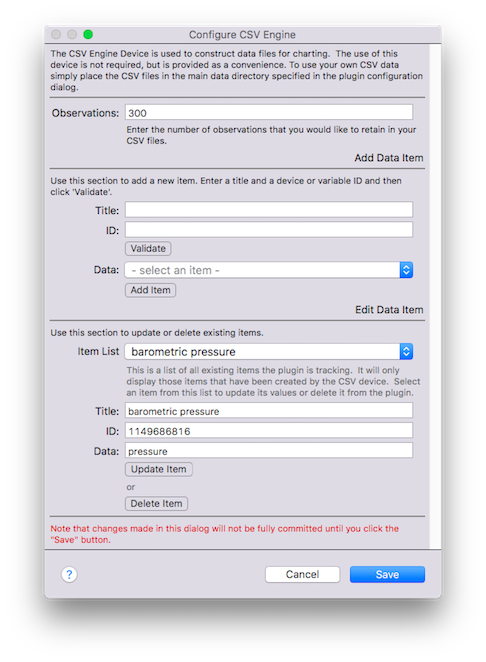
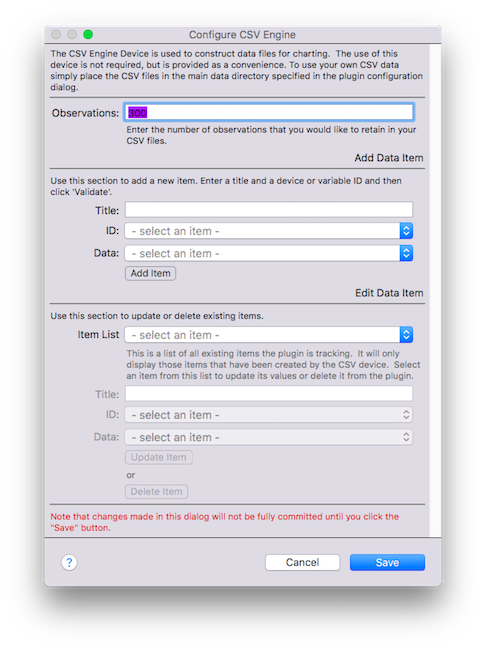
Adds additional validation checks to CSV Engine device to avoid creation of null devices. Includes maintenance code to automatically eliminate null devices that have been previously created.

Changed region(s): [[0.0926, 0.0308, 0.8951, 0.8923], [0.8642, 0.8, 0.8951, 0.8308]]

diff --git a/index.html b/index.html
@@ -65,7 +65,7 @@
 
 <br style="clear:both"/>
 <h3>Devices</h3>
-<img class="TextWrap" src="img/img_csvEngine.png">
+<img class="TextWrap" src="img/img_csvConfig.png">
 <p>Presently, the plugin contains functionality for several charting system devices including:
 <ul>
     <li>CSV Engine</li>
@@ -83,10 +83,10 @@
     CSV Data Engine device type. To establish your CSV Engine, create a new Indigo Device, select Matplotlib as the device type and CSV Engine as the device model.
 <p>For each data element, you must add three things: a title, a device (or variable) ID, and a device state (or variable value).
 <uL>
-    <li><span>&nbsp;Add Data Item&nbsp;</span> - To add your first data element, enter your Title and Device (or Variable) ID and click the Validate button. After validation, the Data
-        dropdown list will be populated with potential values to chart. Select your target value from the list of available items and click Add Item. Please note that the Data dropdown
-        list will show all potential data sources related to the device--many of which may not be suited to charting (like text strings). You can repeat this process to add more data
-        elements, but please note that things you add are not fully committed until you hit the save button.<br><br></li>
+    <li><span>&nbsp;Add Data Item&nbsp;</span> - To add your first data element, enter the Title and then select the appropriate Device (or Variable) ID from the dropdown menu. The Data
+        dropdown list will then be automatically populated with potential values to chart. Select your target value from the list of available items and click Add Item. Please note that
+        the Data dropdown list will show all potential data sources related to the device--many of which may not be suited to charting (like text strings). You can repeat this process to
+        add more data elements, but please note that things you add are not fully committed until you hit the save button.<br><br></li>
     <li><span>&nbsp;Edit Data Item&nbsp;</span> - Use the second configuration area to modify or delete existing data elements. Select the item that you want to modify from the Item List
         dropdown and the fields below will populate with information about the data element. You can change any or all of the information fields as desired. Once finished, click the
         Update Item button. You can change as many items as you like. If you change a data element's Title within the CSV Engine, it will create a new data file and begin logging data

diff --git a/matplotlib.indigoPlugin/Contents/Server Plugin/plugin.py b/matplotlib.indigoPlugin/Contents/Server Plugin/plugin.py
@@ -22,6 +22,8 @@ proper WUnderground devices.
 # TODO: Look at fill with steps line style via the plugin API.
 # TODO: Variable refresh rates for each device so it can update on its own.
 
+# TODO: CSV Engine - edit 'columnDict' to delete entries with (u'', u'', u'').
+
 from ast import literal_eval
 from csv import reader
 import datetime as dt
@@ -506,19 +508,44 @@ class Plugin(indigo.PluginBase):
             lister = [0]
             num_lister = []
 
+            # Add data item validation.  Will not allow add until all three conditions are met.
+            if valuesDict['addValue'] == "":
+                err_msg_dict['addValue'] = u"Please enter a title value for your CSV data element."
+                err_msg_dict['showAlertText'] = u"Title Error.\n\nA title is required for each CSV data element."
+                return valuesDict, err_msg_dict
+
+            if valuesDict['addSource'] == "":
+                err_msg_dict['addSource'] = u"Please select a device or variable as a source for your CSV data element."
+                err_msg_dict['showAlertText'] = u"ID Error.\n\nA source is required for each CSV data element."
+                return valuesDict, err_msg_dict
+
+            if valuesDict['addState'] == "":
+                err_msg_dict['addState'] = u"Please select a value source for your CSV data element."
+                err_msg_dict['showAlertText'] = u"Data Error.\n\nA data value is required for each CSV data element."
+                return valuesDict, err_msg_dict
+
             [lister.append(key.lstrip('k')) for key in sorted(column_dict.keys())]  # Create a list of existing keys with the 'k' lopped off
             [num_lister.append(int(item)) for item in lister]  # Change each value to an integer for evaluation
             next_key = u'k{0}'.format(int(max(num_lister)) + 1)  # Generate the next key
             column_dict[next_key] = (valuesDict['addValue'], valuesDict['addSource'], valuesDict['addState'])  # Save the tuple of properties
+
+            # Remove any empty entries as they're not going to do any good anyway.
+            new_dict = {}
+
+            for k, v in column_dict.iteritems():
+                for key, value in column_dict[k].iteritems():
+                    if column_dict[k][key] != ('', '', ''):
+                        new_dict[k] = {key: value}
+            column_dict = new_dict
+
             valuesDict['columnDict'] = str(column_dict)  # Convert column_dict back to a string and prepare it for storage.
 
         except Exception, sub_error:
             self.logger.warning(u"Error adding column. {0}".format(sub_error))
 
         # Wipe the field values clean for the next element to be added.
-        valuesDict['addValue'] = ""
-        valuesDict['addSource'] = ""
-        valuesDict['addState'] = ""
+        for key in ['addValue', 'addSource', 'addState']:
+            valuesDict[key] = u""
 
         return valuesDict, err_msg_dict
 
@@ -621,6 +648,14 @@ class Plugin(indigo.PluginBase):
         except Exception as sub_error:
             self.pluginErrorHandler(traceback.format_exc())
             self.logger.warning(u"Something went wrong: {0}".format(sub_error))
+
+        # Remove any empty entries as they're not going to do any good anyway.
+        new_dict = {}
+
+        for k, v in column_dict.iteritems():
+            if v != ('', '', ''):
+                new_dict[k] = v
+        column_dict = new_dict
 
         valuesDict['columnDict'] = str(column_dict)  # Convert column_dict back to a string for storage.
 
